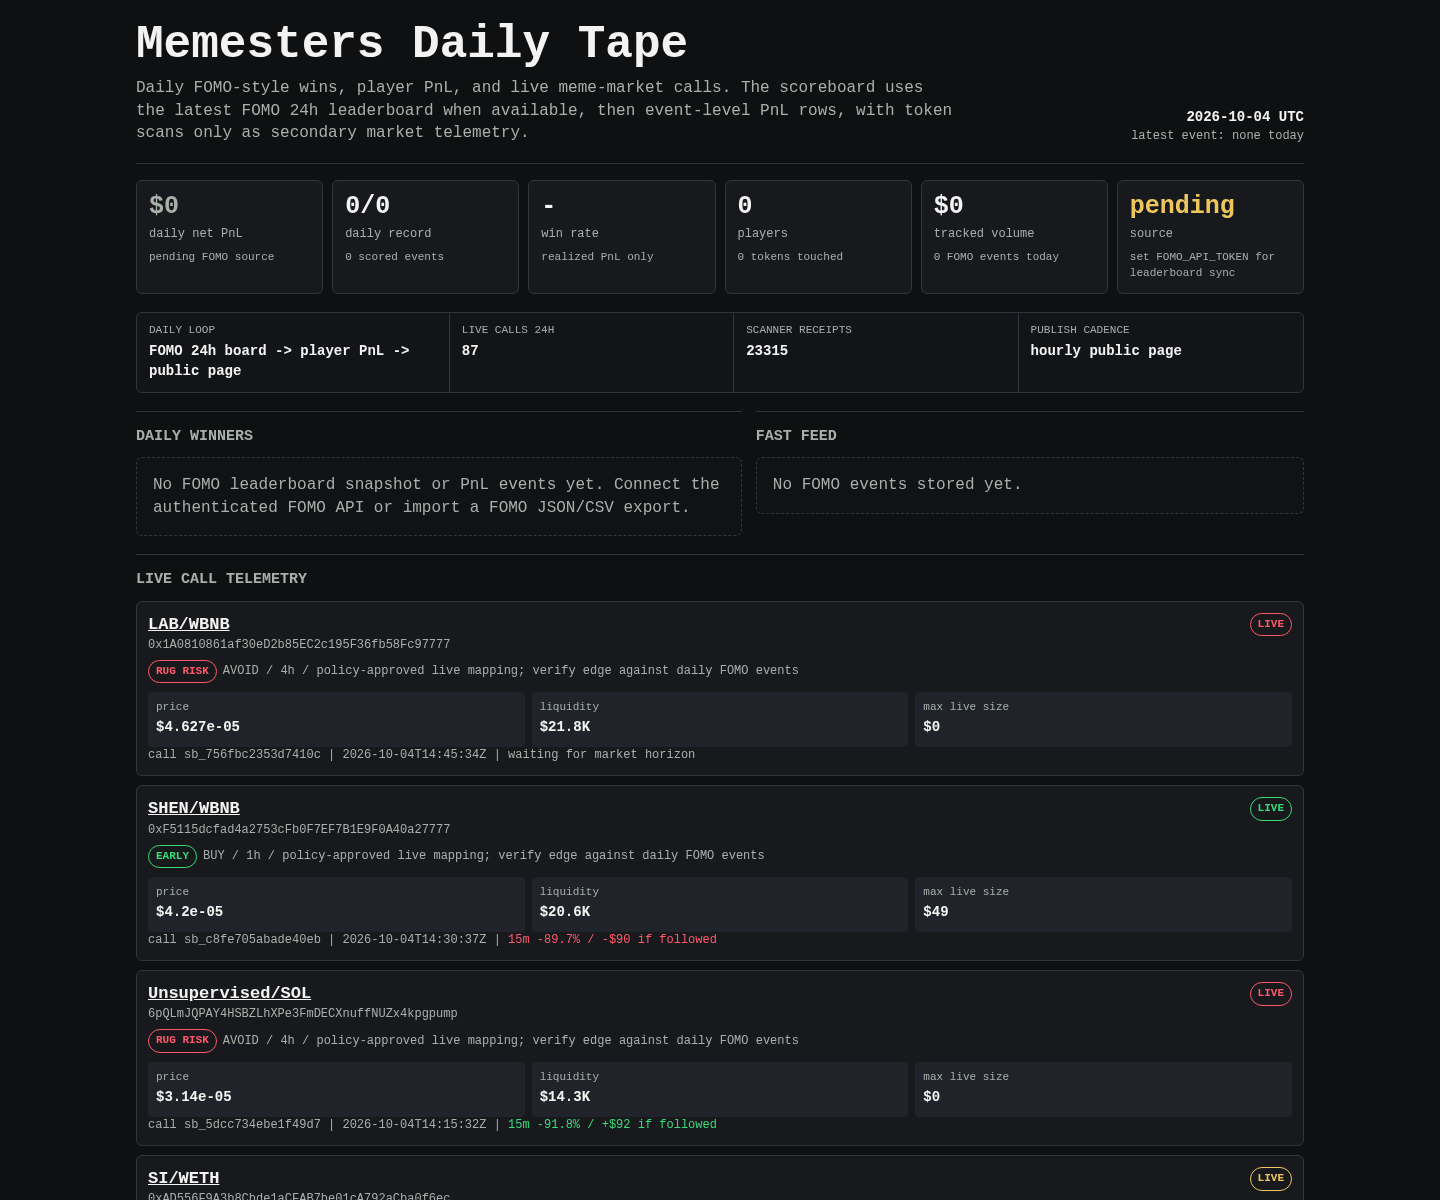
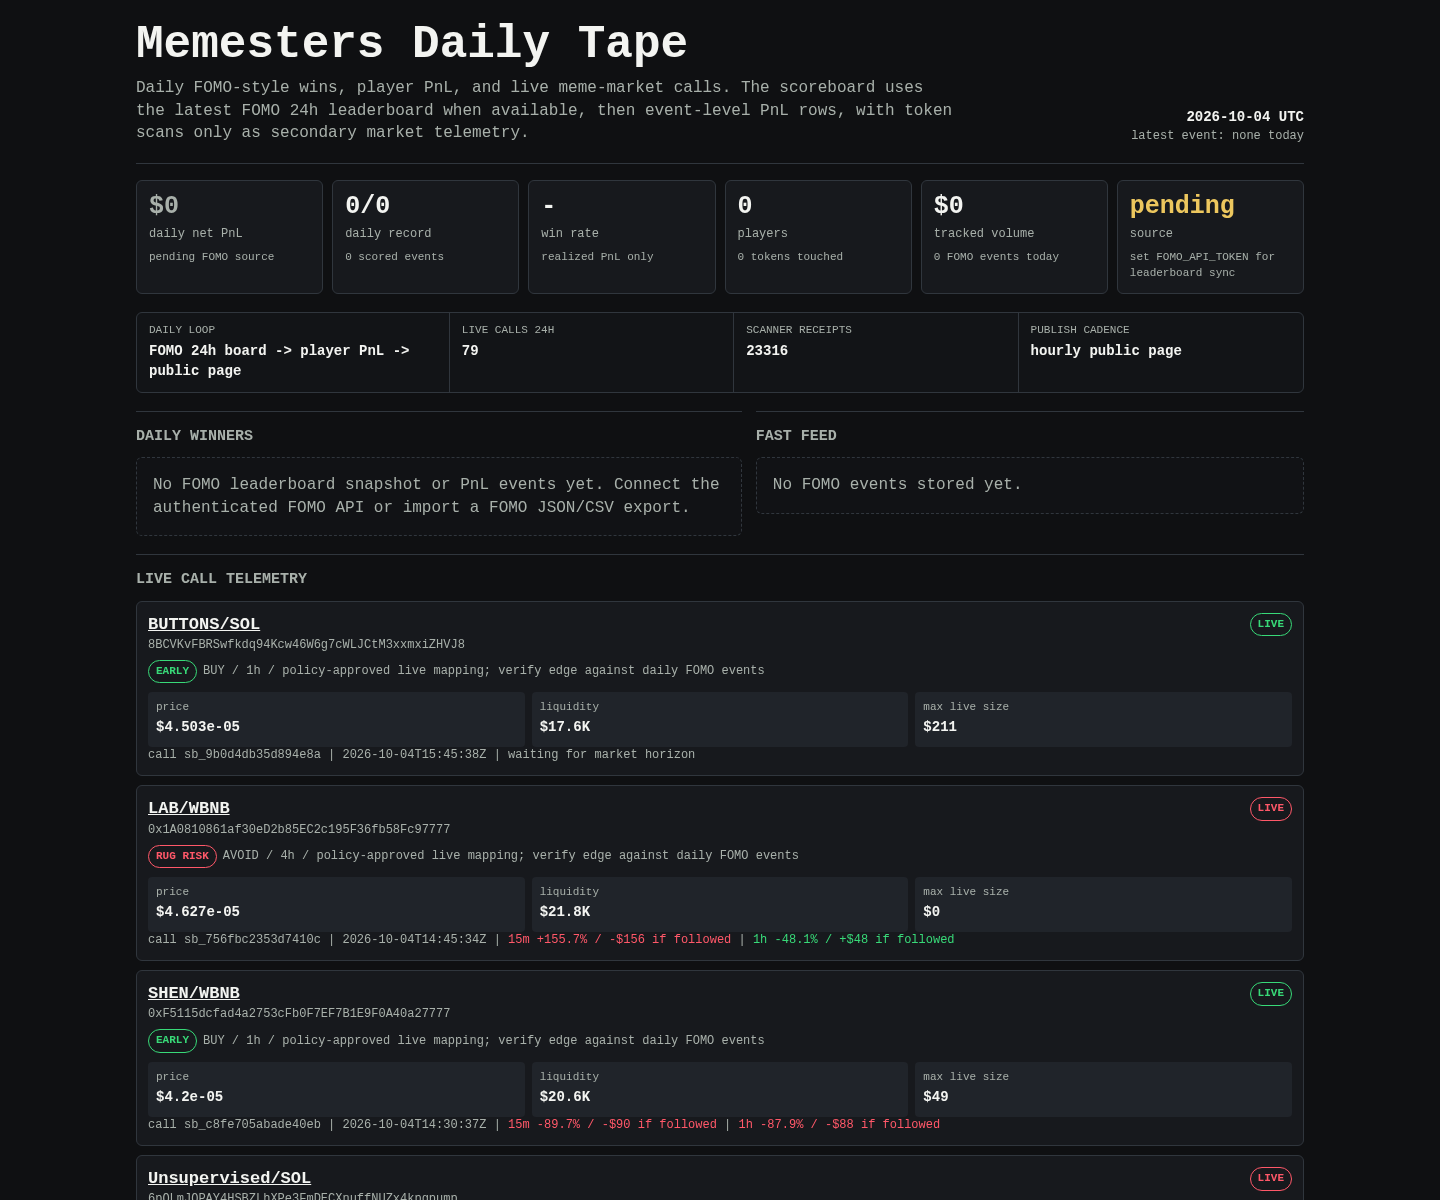
Update Memesters scoreboard

diff --git a/memesters/index.html b/memesters/index.html
@@ -149,8 +149,8 @@
 
     <div class="rail" aria-label="live operating loop">
       <div><span>daily loop</span><b>FOMO 24h board -> player PnL -> public page</b></div>
-      <div><span>live calls 24h</span><b>87</b></div>
-      <div><span>scanner receipts</span><b>23315</b></div>
+      <div><span>live calls 24h</span><b>79</b></div>
+      <div><span>scanner receipts</span><b>23316</b></div>
       <div><span>publish cadence</span><b>hourly public page</b></div>
     </div>
 
@@ -171,6 +171,27 @@
     <article class="receipt">
       <div class="receipt-head">
         <div>
+          <div class="pair"><a href="https://dexscreener.com/solana/5s29emcjkdqvnzqw4upaq9zej1ezwbaamadvvkusp315">BUTTONS/SOL</a></div>
+          <div class="addr">8BCVKvFBRSwfkdq94Kcw46W6g7cWLJCtM3xxmxiZHVJ8</div>
+          <div class="addr policy-line">
+            <span class="badge early">EARLY</span>
+            <span>BUY / 1h / policy-approved live mapping; verify edge against daily FOMO events</span>
+          </div>
+        </div>
+        <span class="badge early">LIVE</span>
+      </div>
+      <div class="receipt-grid">
+        <div class="kv"><span>price</span><b>$4.503e-05</b></div>
+        <div class="kv"><span>liquidity</span><b>$17.6K</b></div>
+        <div class="kv"><span>max live size</span><b>$211</b></div>
+      </div>
+      <div class="outcomes">call sb_9b0d4db35d894e8a | 2026-10-04T15:45:38Z | waiting for market horizon</div>
+    </article>
+    
+
+    <article class="receipt">
+      <div class="receipt-head">
+        <div>
           <div class="pair"><a href="https://dexscreener.com/bsc/0x1d03574ec43a1915efce988a77e4816e38f59bf6">LAB/WBNB</a></div>
           <div class="addr">0x1A0810861af30eD2b85EC2c195F36fb58Fc97777</div>
           <div class="addr policy-line">
@@ -185,7 +206,7 @@
         <div class="kv"><span>liquidity</span><b>$21.8K</b></div>
         <div class="kv"><span>max live size</span><b>$0</b></div>
       </div>
-      <div class="outcomes">call sb_756fbc2353d7410c | 2026-10-04T14:45:34Z | waiting for market horizon</div>
+      <div class="outcomes">call sb_756fbc2353d7410c | 2026-10-04T14:45:34Z | <span class="negative">15m +155.7% / -$156 if followed</span> | <span class="positive">1h -48.1% / +$48 if followed</span></div>
     </article>
     
 
@@ -206,7 +227,7 @@
         <div class="kv"><span>liquidity</span><b>$20.6K</b></div>
         <div class="kv"><span>max live size</span><b>$49</b></div>
       </div>
-      <div class="outcomes">call sb_c8fe705abade40eb | 2026-10-04T14:30:37Z | <span class="negative">15m -89.7% / -$90 if followed</span></div>
+      <div class="outcomes">call sb_c8fe705abade40eb | 2026-10-04T14:30:37Z | <span class="negative">15m -89.7% / -$90 if followed</span> | <span class="negative">1h -87.9% / -$88 if followed</span></div>
     </article>
     
 
@@ -227,7 +248,7 @@
         <div class="kv"><span>liquidity</span><b>$14.3K</b></div>
         <div class="kv"><span>max live size</span><b>$0</b></div>
       </div>
-      <div class="outcomes">call sb_5dcc734ebe1f49d7 | 2026-10-04T14:15:32Z | <span class="positive">15m -91.8% / +$92 if followed</span></div>
+      <div class="outcomes">call sb_5dcc734ebe1f49d7 | 2026-10-04T14:15:32Z | <span class="positive">15m -91.8% / +$92 if followed</span> | <span class="positive">1h -92.2% / +$92 if followed</span></div>
     </article>
     
 
@@ -248,7 +269,7 @@
         <div class="kv"><span>liquidity</span><b>$120.4K</b></div>
         <div class="kv"><span>max live size</span><b>$0</b></div>
       </div>
-      <div class="outcomes">call sb_f570cdc866e04226 | 2026-10-04T14:15:32Z | <span class="negative">15m +45.9% / -$46 if followed</span></div>
+      <div class="outcomes">call sb_f570cdc866e04226 | 2026-10-04T14:15:32Z | <span class="negative">15m +45.9% / -$46 if followed</span> | <span class="positive">1h -61.2% / +$61 if followed</span></div>
     </article>
     
 
@@ -269,7 +290,7 @@
         <div class="kv"><span>liquidity</span><b>$63.0K</b></div>
         <div class="kv"><span>max live size</span><b>$0</b></div>
       </div>
-      <div class="outcomes">call sb_dd3d518975f14d6b | 2026-10-04T14:00:34Z | <span class="positive">15m -93.2% / +$93 if followed</span></div>
+      <div class="outcomes">call sb_dd3d518975f14d6b | 2026-10-04T14:00:34Z | <span class="positive">15m -93.2% / +$93 if followed</span> | <span class="positive">1h -93.2% / +$93 if followed</span></div>
     </article>
     
 
@@ -354,27 +375,6 @@
         <div class="kv"><span>max live size</span><b>$0</b></div>
       </div>
       <div class="outcomes">call sb_82e01b06594f48f8 | 2026-10-04T12:15:33Z | <span class="negative">15m +2.1% / -$2 if followed</span> | <span class="positive">1h -50.6% / +$51 if followed</span></div>
-    </article>
-    
-
-    <article class="receipt">
-      <div class="receipt-head">
-        <div>
-          <div class="pair"><a href="https://dexscreener.com/solana/abc2vtz2ucy7pu5rlyt2ct3pgmfv5qthu7gljkj2abkn">cap/SOL</a></div>
-          <div class="addr">7Gk8JYXC3sKw6frH37sVeXhwYZZ3246zXr7UXGCpump</div>
-          <div class="addr policy-line">
-            <span class="badge early">EARLY</span>
-            <span>BUY / 1h / policy-approved live mapping; verify edge against daily FOMO events</span>
-          </div>
-        </div>
-        <span class="badge early">LIVE</span>
-      </div>
-      <div class="receipt-grid">
-        <div class="kv"><span>price</span><b>$3.849e-05</b></div>
-        <div class="kv"><span>liquidity</span><b>$16.0K</b></div>
-        <div class="kv"><span>max live size</span><b>$190</b></div>
-      </div>
-      <div class="outcomes">call sb_f1bf56dd975d4c95 | 2026-10-04T12:00:36Z | <span class="positive">15m +10.5% / +$10 if followed</span> | <span class="negative">1h -83.4% / -$83 if followed</span></div>
     </article>
     
     </section>
